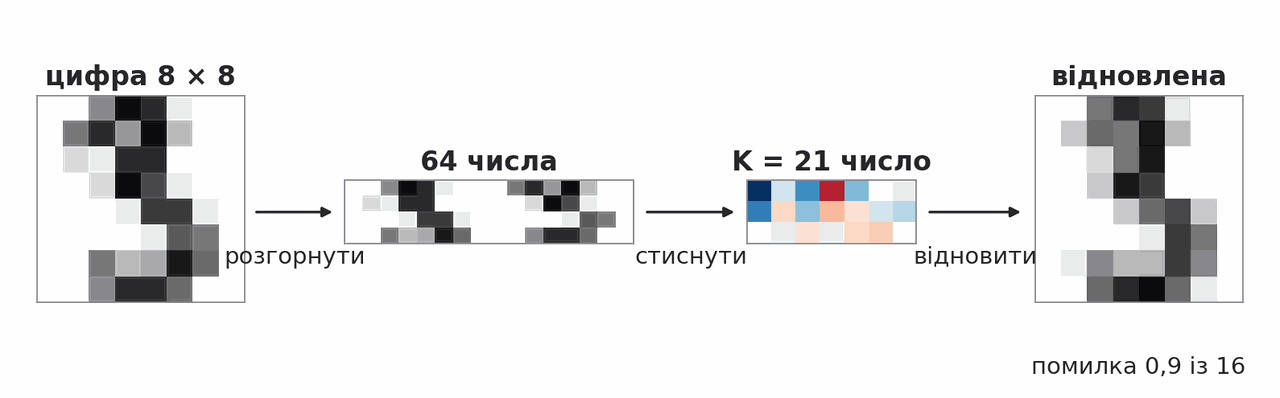
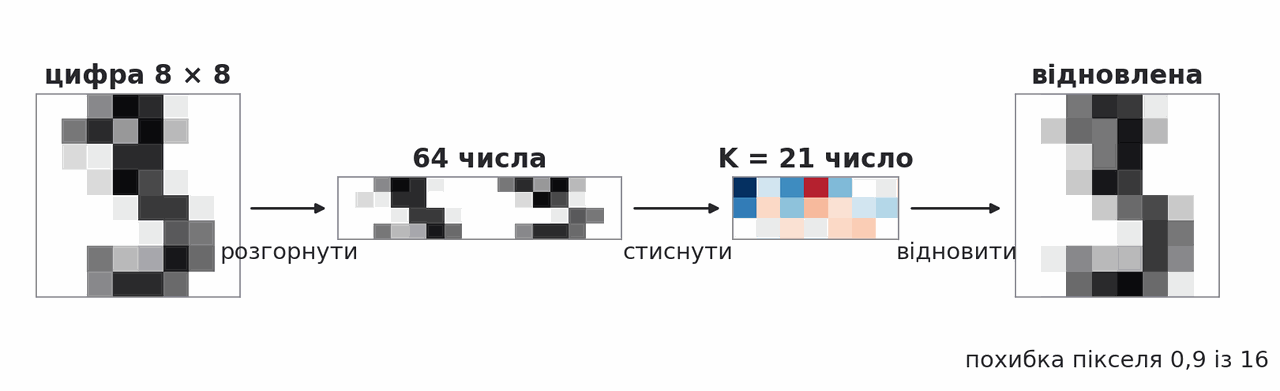
Л09: одна міра — одне слово, загальне правило відновлення, межа прикладу карти
Помилка відновлення, похибка пікселя, залишок і RMSE розведено всюди.
Шаблон і внесок розділено від двох значень «головної компоненти». Посилання
на Distill перенесено в «Матеріали» й «Літературу».

diff --git a/.vitepress/theme/components/SgdMatrixLab.vue b/.vitepress/theme/components/SgdMatrixLab.vue
@@ -79,7 +79,7 @@ const curve = states.map((s, t) => `${cx(t)},${cy(s.rmse)}`).join(' ')
         <p class="sm__head">Крок <b data-check="step">{{ step }}</b> із {{ d.maxSteps }}<template v-if="step"> · епоха {{ Math.ceil(step / EPOCH) }}</template></p>
         <template v-if="cur.info">
           <p>клітинка {{ d.rows[cur.info.a] }}, {{ d.cols[cur.info.b] }}: {{ f(cur.info.x) }}</p>
-          <p>прогноз <b data-check="pred">{{ f(cur.info.pred) }}</b>, помилка e = <b data-check="e">{{ f(cur.info.e) }}</b></p>
+          <p>прогноз <b data-check="pred">{{ f(cur.info.pred) }}</b>, залишок e = <b data-check="e">{{ f(cur.info.e) }}</b></p>
           <p>z: {{ f(cur.info.z) }} → <b data-check="z">{{ f(cur.info.zn) }}</b></p>
           <p>w: {{ f(cur.info.w) }} → <b data-check="w">{{ f(cur.info.wn) }}</b></p>
           <p>новий прогноз <b data-check="next">{{ f(cur.info.next) }}</b></p>
@@ -94,7 +94,7 @@ const curve = states.map((s, t) => `${cx(t)},${cy(s.rmse)}`).join(' ')
       <button class="lab__btn" :disabled="step === 0" @click="go(0)">спочатку</button>
     </div>
 
-    <svg :viewBox="`0 0 ${CW} ${CH}`" class="sm__plot" role="img" aria-label="Помилка на відомих клітинках за кроками">
+    <svg :viewBox="`0 0 ${CW} ${CH}`" class="sm__plot" role="img" aria-label="RMSE на відомих клітинках за кроками">
       <line :x1="PL" :x2="CW - PR" :y1="cy(0)" :y2="cy(0)" class="sm__axis" />
       <line :x1="PL" :x2="PL" :y1="PT" :y2="cy(0)" class="sm__axis" />
       <text :x="PL - 5" :y="cy(0) + 4" text-anchor="end" class="sm__tick">0</text>
